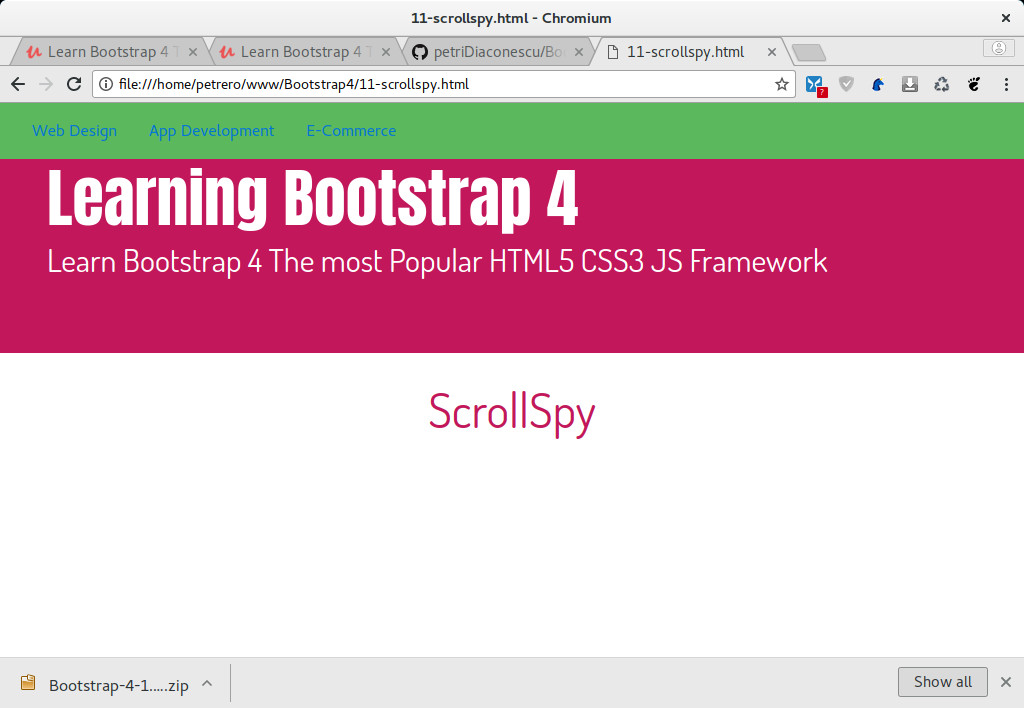
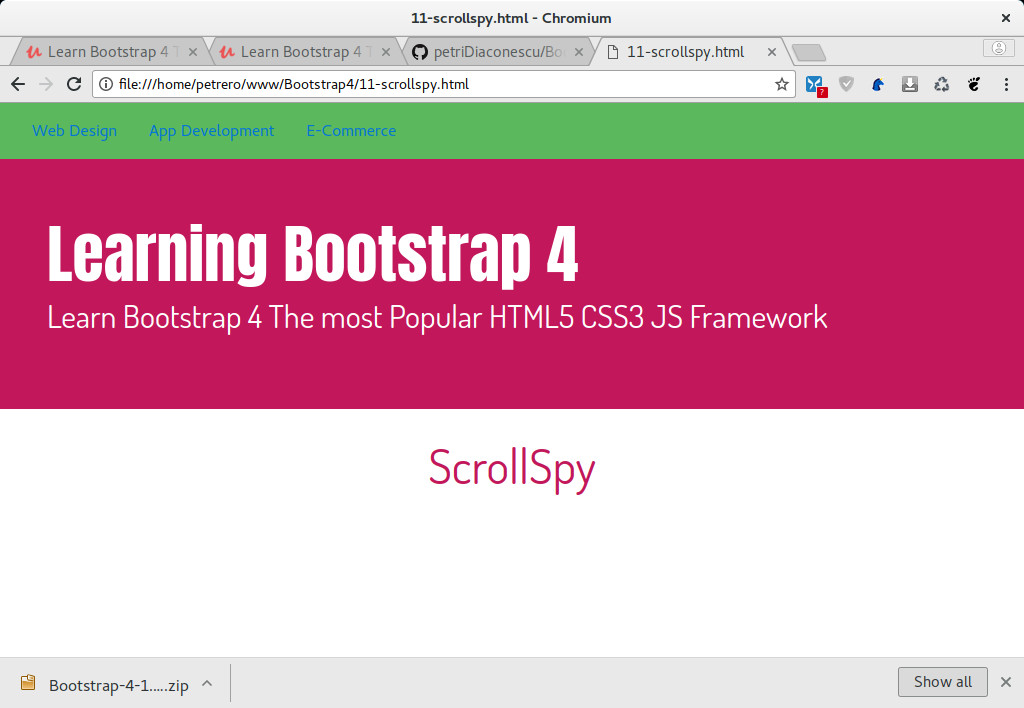
Get h1 some breathing space.

Changed region(s): [[0.0, 0.4972, 1.0, 0.6836], [0.0312, 0.2175, 0.8125, 0.404], [0.0312, 0.435, 0.8125, 0.4661]]

diff --git a/css/styles.css b/css/styles.css
@@ -55,3 +55,7 @@ header.entry-header h1 {
 .service {
   padding: 150px 0;
 }
+
+body {
+  margin-top: 56px;
+}
